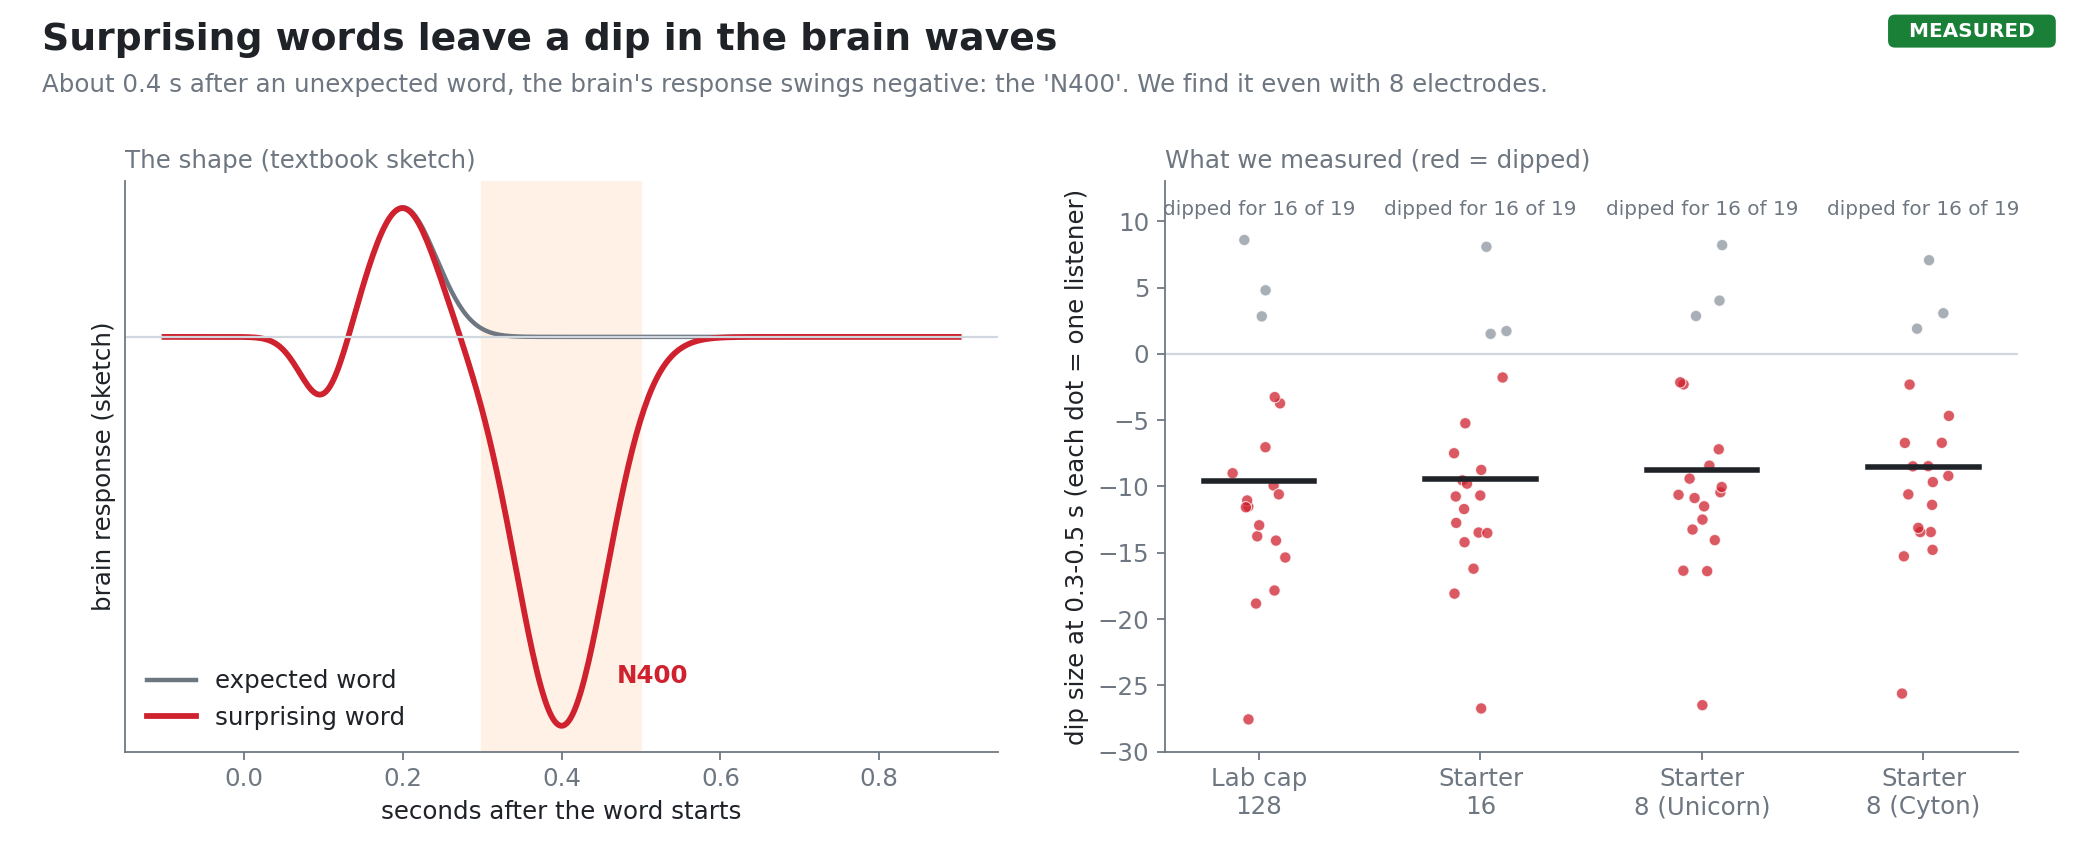
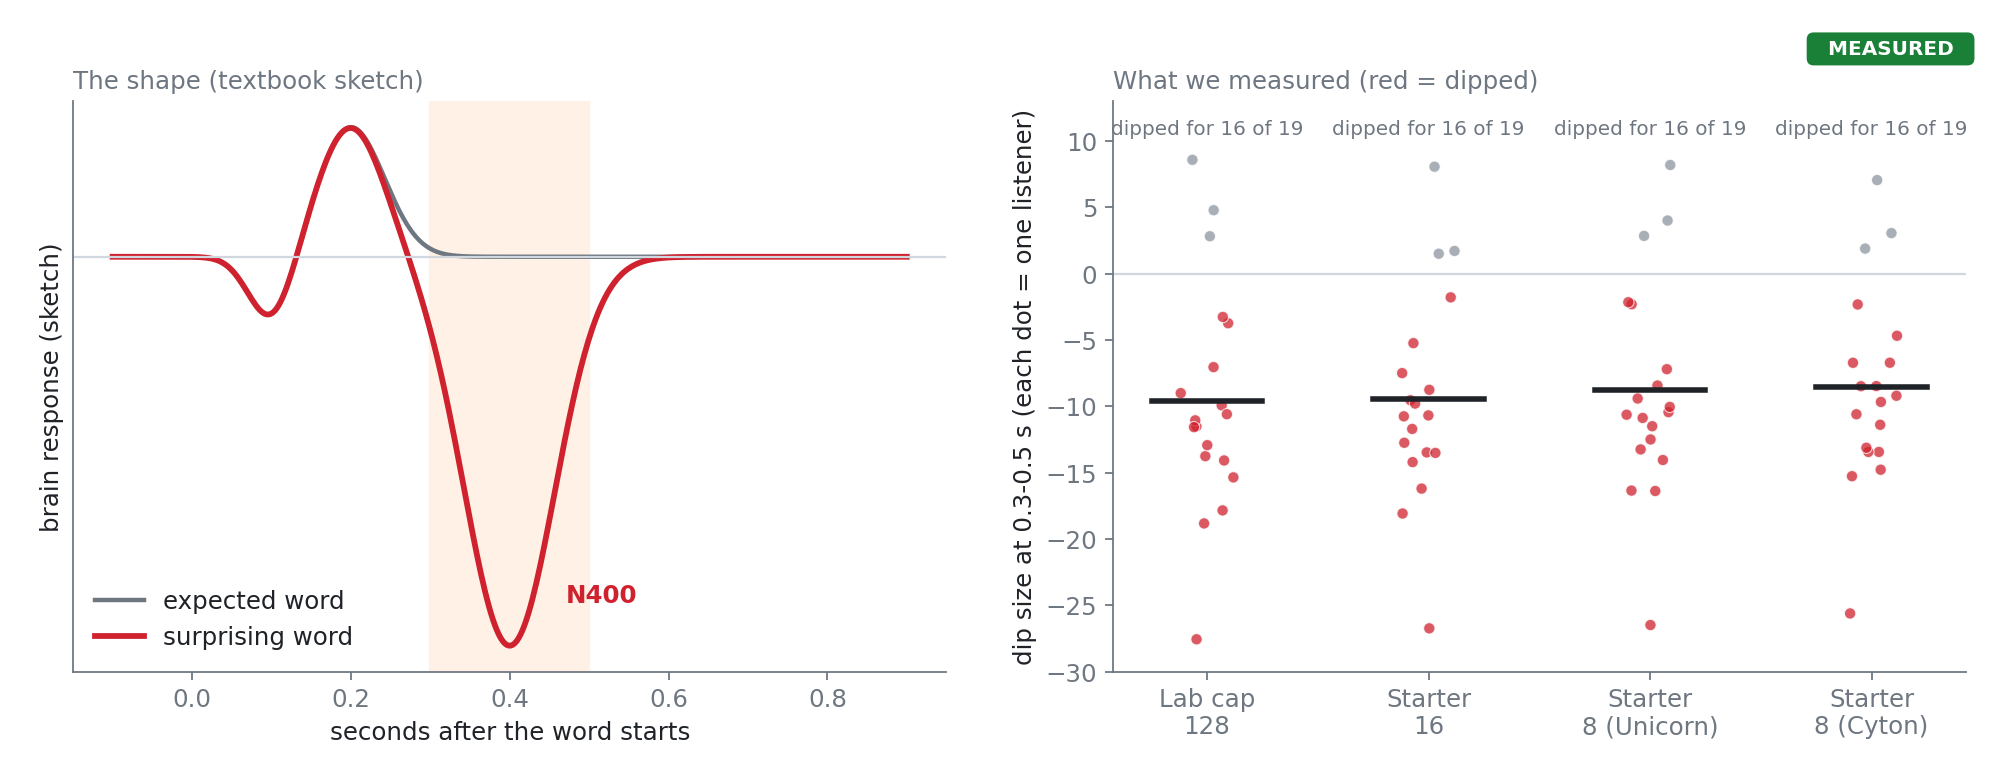
Figures carry no titles; the README headings do. Badges pin to the drawing's corner (#7)
Key legend lines from the old in-image subtitles moved into the README text.

diff --git a/make_figures.py b/make_figures.py
@@ -81,23 +81,21 @@ plt.rcParams.update(
 # --------------------------------------------------------------------------- helpers
 
 
-def badge(fig, kind: str, x: float = 0.985, y: float = 0.975) -> None:
-    fig.text(
-        x, y, f"  {kind.upper()}  ", ha="right", va="top", fontsize=9, fontweight="bold",
-        color="white", bbox=dict(boxstyle="round,pad=0.35", fc=BADGE[kind], ec="none"),
-    )
-
-
-def title(fig, text: str, sub: str | None = None) -> None:
-    fig.text(0.02, 0.975, text, ha="left", va="top", fontsize=17, fontweight="bold")
-    if sub:
-        fig.text(0.02, 0.915, sub, ha="left", va="top", fontsize=11, color=MUTED)
+def badge(fig, kind: str) -> None:
+    """Mark the figure Measured, Planned or Illustration; save() pins it to the drawing's top-right corner."""
+    fig._semmn_badge = kind
 
 
 def save(fig, name: str) -> None:
     OUT.mkdir(parents=True, exist_ok=True)
     path = OUT / f"{name}.png"
-    fig.savefig(path, dpi=DPI)
+    kind = getattr(fig, "_semmn_badge", None)
+    if kind:
+        bb = fig.get_tightbbox(fig.canvas.get_renderer())  # inches, content only
+        w, h = fig.get_size_inches()
+        fig.text(bb.x1 / w, bb.y1 / h + 0.012, f"  {kind.upper()}  ", ha="right", va="bottom", fontsize=9,
+                 fontweight="bold", color="white", bbox=dict(boxstyle="round,pad=0.35", fc=BADGE[kind], ec="none"))
+    fig.savefig(path, dpi=DPI, bbox_inches="tight", pad_inches=0.25)
     plt.close(fig)
     print(f"wrote {path.relative_to(ROOT)} ({path.stat().st_size // 1024} KB)")
 
@@ -143,7 +141,6 @@ def scalp_xy(name: str) -> np.ndarray:
 
 def fig_big_idea() -> None:
     fig = plt.figure(figsize=(14, 3.9))
-    title(fig, "Core Process", "Brain waves in, a few likely words out, and the person always has the final say.")
     badge(fig, "Illustration")
     ax = fig.add_axes([0.01, 0.0, 0.98, 0.84])
     ax.set_xlim(0, 14)
@@ -245,8 +242,6 @@ def fig_brain(atlas) -> None:
     cmap = ListedColormap([NETWORKS[k][1] for k in keys])
 
     fig = plt.figure(figsize=(13, 7.4))
-    title(fig, "Where the model's 100 columns live on the brain",
-          "Each coloured patch is one column. Colours group them into the brain's 7 big networks.")
     badge(fig, "Planned")
     views = [("left", "lateral", "Left side"), ("right", "lateral", "Right side"),
              ("left", "medial", "Left, inner face"), ("right", "medial", "Right, inner face")]
@@ -296,8 +291,6 @@ def fig_wiring(atlas) -> None:
     node_colors = [NETWORKS[n][1] for n in nets]
 
     fig = plt.figure(figsize=(13, 5.6))
-    title(fig, "How the columns are wired",
-          "Columns sit at the centre of their brain region. Neighbours connect far more often than distant pairs, like real cortex.")
     badge(fig, "Planned")
     ax = fig.add_axes([0.0, 0.0, 1.0, 0.86])
     plotting.plot_connectome(adj, coords, node_color=node_colors, node_size=34, display_mode="lzr",
@@ -324,8 +317,6 @@ def fig_electrodes(atlas) -> None:
     sizes = [26] * n_par + [70] * len(elec)
 
     fig = plt.figure(figsize=(13, 5.6))
-    title(fig, "What each electrode mostly hears",
-          "Black dots: a 16-electrode starter headset. Lines run to the 3 columns closest underneath each one.")
     badge(fig, "Illustration")
     ax = fig.add_axes([0.0, 0.0, 1.0, 0.86])
     plotting.plot_connectome(adj, all_nodes, node_color=colors, node_size=sizes, display_mode="lzr",
@@ -365,8 +356,6 @@ def fig_headset() -> None:
     gz[np.hypot(gx, gy) > 1.0] = np.nan
 
     fig = plt.figure(figsize=(13, 5.8))
-    title(fig, "What a headset can hear while someone listens to a story",
-          "Warmer = brain waves there followed the story's sound and words more closely (19 listeners, held-out data).")
     badge(fig, "Measured")
     for k, (mname, label) in enumerate([("biosemi128", "Lab cap, 128 electrodes"),
                                          ("cyton_daisy16", "Starter headset, 16"),
@@ -411,8 +400,6 @@ def fig_n400() -> None:
             for m, _ in order}
 
     fig = plt.figure(figsize=(13, 5.4))
-    title(fig, "Surprising words leave a dip in the brain waves",
-          "About 0.4 s after an unexpected word, the brain's response swings negative: the 'N400'. We find it even with 8 electrodes.")
     badge(fig, "Measured")
     ax = fig.add_axes([0.06, 0.13, 0.42, 0.66])
     t = np.linspace(-0.1, 0.9, 400)
@@ -467,8 +454,6 @@ def fig_meaning_map() -> None:
     rank = surpr.argsort().argsort() / (len(surpr) - 1)  # colour by rank so the scale is even
 
     fig = plt.figure(figsize=(13, 6.2))
-    title(fig, "Words as points on a meaning map",
-          "Each dot is a word from the story. Similar meanings land near each other; colour shows how surprising the word was.")
     badge(fig, "Measured")
     ax = fig.add_axes([0.04, 0.06, 0.54, 0.78])
     from scipy.stats import gaussian_kde
@@ -490,15 +475,6 @@ def fig_meaning_map() -> None:
     cb.set_ticks([])
     cax.text(0.5, 1.03, "surprising", transform=cax.transAxes, ha="center", fontsize=8.5, color=MUTED)
     cax.text(0.5, -0.06, "expected", transform=cax.transAxes, ha="center", va="top", fontsize=8.5, color=MUTED)
-    fig.text(0.68, 0.72, "Why this matters", fontsize=12, fontweight="bold")
-    fig.text(0.68, 0.42,
-             "A word's meaning is a list of 384 numbers.\n"
-             "Here they are squeezed to 2 so you can see\n"
-             "the shape. Shaded hills are where words crowd.\n\n"
-             "The model's job is to find a similar small\n"
-             "map inside the brain waves, then ask the\n"
-             "language model which nearby words fit.",
-             fontsize=10.5, color=INK, va="bottom", linespacing=1.5)
     save(fig, "07_meaning_map")
 
 
@@ -514,7 +490,6 @@ def _summary_gain() -> dict[str, tuple[float, str]]:
 def fig_scoreboard() -> None:
     gain = _summary_gain()
     fig = plt.figure(figsize=(13, 5.6))
-    title(fig, "Honest scoreboard", "What the research shows so far, and what it doesn't yet.")
     badge(fig, "Measured")
 
     ax = fig.add_axes([0.17, 0.2, 0.3, 0.56])

diff --git a/README.md b/README.md
@@ -7,6 +7,8 @@ This repository is the research toward that goal. The pictures below explain it 
 
 ### Core Process
 
+Brain waves in, a few likely words out, and the person always has the final say.
+
 ![From EEG cap to brain waves, brain regions, model columns, a meaning map, word guesses and the person's yes](docs/figures/01_core_process.png)
 
 <sub>What's simplified: the real pipeline filters and times the signal at every step, and it weighs many candidates at once.</sub>
@@ -29,7 +31,7 @@ Columns talk to each other, and, as in a real brain, neighbours talk far more of
 
 ### What each electrode mostly hears
 
-A cheap headset has 8 to 16 electrodes. Each sits on the scalp above a handful of brain regions, so each one mostly hears those regions' columns.
+A cheap headset has 8 to 16 electrodes. Each sits on the scalp above a handful of brain regions, so each one mostly hears those regions' columns. Black dots are the headset's electrodes, and lines run to the three regions closest underneath each one.
 
 ![A 16-electrode headset with lines to the three closest brain regions under each electrode](docs/figures/04_electrodes_to_columns.png)
 
@@ -37,7 +39,7 @@ A cheap headset has 8 to 16 electrodes. Each sits on the scalp above a handful o
 
 ### What a headset can hear while someone listens to a story
 
-We used a public dataset of 19 people listening to an audiobook (Broderick et al., 2018). We then checked how well their brain waves followed the story's sound and words, on data the models had never seen. The strongest tracking is over the middle and sides of the head, and the cheap 8- and 16-electrode layouts sit right on it.
+We used a public dataset of 19 people listening to an audiobook (Broderick et al., 2018). We then checked how well their brain waves followed the story's sound and words, on data the models had never seen. The strongest tracking is over the middle and sides of the head, and the cheap 8- and 16-electrode layouts sit right on it. Warmer colours mean the brain waves there followed the story more closely.
 
 ![Three head maps, a 128-electrode lab cap and two starter headsets, warmest over the centre and sides](docs/figures/05_headset_map.png)
 
@@ -53,13 +55,15 @@ About 0.4 seconds after a word you didn't expect, the brain's response dips. Sci
 
 ### Words as points on a meaning map
 
-To a language model, a word's meaning is a long list of numbers. Words with similar meanings have similar lists, so they land near each other on a map. The model's job is to find a map like this inside the brain waves.
+To a language model, a word's meaning is a long list of numbers. Words with similar meanings have similar lists, so they land near each other on a map. Colour shows how surprising each word was in the story. The model's job is to find a map like this inside the brain waves, then ask the language model which nearby words fit.
 
 ![The story's words as dots on a 2D meaning map, coloured by how surprising each word was](docs/figures/07_meaning_map.png)
 
 <sub>What's simplified: 384 numbers per word are squeezed down to 2. That keeps the overall shape and loses the fine detail.</sub>
 
 ### Honest scoreboard
+
+What the research shows so far, and what it doesn't yet.
 
 ![Left: word knowledge improves brain-wave prediction on every headset. Right: the brain-shaped model nearly matches a plain network on a toy task](docs/figures/08_scoreboard.png)
 
